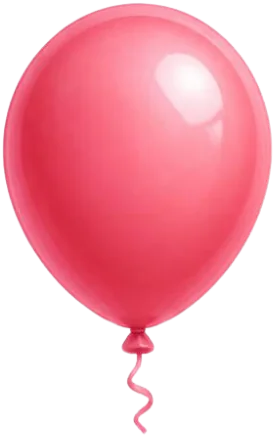
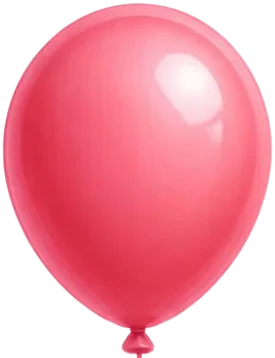
Make a Wish: puppy-eyes bear with tear, balloons tied to strings, working mic blow
Claude-Session: https://claude.ai/code/session_01421VuoqhFcSd1MVsboy9pA

diff --git a/birthday-wish/index.html b/birthday-wish/index.html
@@ -119,12 +119,14 @@ canvas#confetti{position:fixed;inset:0;width:100%;height:100%;pointer-events:non
 .sky .holder{position:absolute;left:0;right:0;bottom:0;width:100%;height:auto}
 .sky svg.strings{position:absolute;inset:0;width:100%;height:100%;overflow:visible;pointer-events:none}
 .sky svg.strings line{stroke:var(--ink);stroke-opacity:.45;stroke-width:1.2;transition:opacity .3s}
-.balloon{position:absolute;width:20%;aspect-ratio:273/437;transform:translate(-50%,-50%);border:0;padding:0;background:none;cursor:pointer;animation:float 3.6s ease-in-out infinite}
+.balloon{position:absolute;width:20%;aspect-ratio:273/358;translate:-50% -100%;transform-origin:50% 100%;border:0;padding:0;background:none;cursor:pointer;animation:sway 3.6s ease-in-out infinite}
 .balloon:nth-child(2n){animation-duration:4.2s;animation-delay:-1.2s}.balloon:nth-child(3n){animation-delay:-2.1s}
 .balloon img{width:100%;height:100%;display:block;filter:drop-shadow(0 8px 10px rgba(42,31,92,.18));pointer-events:none}
 .balloon.popped{animation:pop .32s ease-out forwards;pointer-events:none}
 @keyframes float{50%{margin-top:-7px}}
-@keyframes pop{40%{transform:translate(-50%,-50%) scale(1.25)}100%{transform:translate(-50%,-50%) scale(.1);opacity:0}}
+@keyframes pop{40%{scale:1.25}100%{scale:.1;opacity:0}}
+@keyframes sway{0%,100%{rotate:-3deg}50%{rotate:3deg}}
+.balloon.popped{transform-origin:50% 45%}
 .card{width:100%;min-height:8.2em;display:flex;flex-direction:column;align-items:center;justify-content:center;gap:6px;padding:16px;border-radius:20px;
   background:#fff;box-shadow:inset 0 0 0 3px var(--butter)}
 .card .tag{font-weight:700;font-size:.88rem;color:var(--accent);letter-spacing:.03em}
@@ -162,6 +164,11 @@ canvas#confetti{position:fixed;inset:0;width:100%;height:100%;pointer-events:non
 /* 6. ask */
 .signbear{position:relative;width:min(58vw,32dvh);aspect-ratio:624/935}
 .signbear img{width:100%;height:100%;display:block}
+.signbear img.sad{position:absolute;inset:0;opacity:0;transition:opacity .35s}
+.signbear.sad img.sad{opacity:1}
+.signbear .tear{position:absolute;left:38.6%;top:51%;width:4.4%;aspect-ratio:1;border-radius:0 50% 50% 50%;rotate:45deg;background:radial-gradient(circle at 60% 60%,#fff 0 14%,#9FD3F5 30%,#5BA8E0);opacity:0;pointer-events:none}
+.signbear.cry .tear{animation:tear 2.2s ease-in .2s infinite}
+@keyframes tear{0%{opacity:0;translate:0 0;scale:.4}15%{opacity:.95;scale:1}80%{opacity:.9}100%{opacity:0;translate:0 70%}}
 .signbear.plead{animation:plead .6s ease}
 @keyframes plead{25%{transform:rotate(-4deg)}50%{transform:rotate(3deg) scale(1.03)}75%{transform:rotate(-2deg)}}
 .signtext{position:absolute;left:31%;width:61%;top:3.4%;height:23%;display:flex;align-items:center;justify-content:center;text-align:center;
@@ -293,7 +300,7 @@ canvas#confetti{position:fixed;inset:0;width:100%;height:100%;pointer-events:non
   <!-- 6. The question -->
   <section class="scene two" data-scene="ask" hidden>
     <div class="art">
-      <div class="signbear" id="signbear"><img src="img/bear-sign.webp" alt="The bear holding up a sign" width="624" height="935"><p class="signtext" id="signText"></p></div>
+      <div class="signbear" id="signbear"><img src="img/bear-sign.webp" alt="The bear holding up a sign" width="624" height="935"><img class="sad" src="img/bear-sign-sad.webp" alt="" width="624" height="935"><span class="tear" aria-hidden="true"></span><p class="signtext" id="signText"></p></div>
     </div>
     <div class="words">
       <h2 tabindex="-1" id="question"></h2>
@@ -532,19 +539,28 @@ holdBtn.addEventListener("pointerdown", e => { if (blown) return; e.preventDefau
 holdBtn.addEventListener("contextmenu", e => e.preventDefault());
 holdBtn.addEventListener("click", e => { if (e.detail === 0) blow(); });   // keyboard
 $("#micBtn").addEventListener("click", async () => {
+  const mb = $("#micBtn"); ensureAudio();
   try {
-    const stream = await navigator.mediaDevices.getUserMedia({ audio: true }); ensureAudio();
-    const src = ctx.createMediaStreamSource(stream), an = ctx.createAnalyser(); an.fftSize = 512; src.connect(an);
-    const buf = new Float32Array(an.fftSize); let loud = 0;
-    $("#micBtn").textContent = "Listening… blow now 🌬";
+    // noise suppression would filter out the very sound of blowing, so switch it off
+    const stream = await navigator.mediaDevices.getUserMedia({ audio: { noiseSuppression: false, echoCancellation: false, autoGainControl: false } });
+    const mctx = new (window.AudioContext || window.webkitAudioContext)(); await mctx.resume();
+    const src = mctx.createMediaStreamSource(stream), an = mctx.createAnalyser(), mute = mctx.createGain();
+    an.fftSize = 1024; mute.gain.value = 0; src.connect(an); an.connect(mute); mute.connect(mctx.destination);
+    const buf = new Float32Array(an.fftSize), t0 = performance.now(); let base = 0, nb = 0, push = 0;
+    mb.textContent = "Listening… blow now 🌬";
+    const stop = () => { stream.getTracks().forEach(t => t.stop()); mctx.close(); };
     const tick = () => {
-      if (blown){ stream.getTracks().forEach(t => t.stop()); return; }
-      an.getFloatTimeDomainData(buf); let s = 0; for (const v of buf) s += v * v;
-      loud = Math.sqrt(s / buf.length) > .12 ? loud + 1 : Math.max(0, loud - 1);
-      if (loud > 8){ stream.getTracks().forEach(t => t.stop()); blow(); } else requestAnimationFrame(tick);
+      if (blown){ stop(); return; }
+      an.getFloatTimeDomainData(buf); let sq = 0; for (const v of buf) sq += v * v;
+      const rms = Math.sqrt(sq / buf.length);
+      if (performance.now() - t0 < 400){ base += rms; nb++; return requestAnimationFrame(tick); }   // room noise first
+      const need = Math.max(.035, (base / Math.max(1, nb)) * 3);
+      push = rms > need ? push + 1 : Math.max(0, push - .5);
+      holdBtn.style.setProperty("--p", Math.min(1, push / 12));
+      if (push >= 12){ stop(); blow(); } else requestAnimationFrame(tick);
     };
     tick();
-  } catch (e) { $("#micBtn").textContent = "Mic not available, hold the button instead"; }
+  } catch (e) { mb.textContent = "Mic not available, hold the button instead"; }
 });
 async function blow(){
   if (blown) return; blown = true; cancelAnimationFrame(holdRaf);
@@ -567,11 +583,12 @@ function buildBalloons(){
   const spots = BALLOONS.slice(0, n);
   spots.forEach(([x, y], i) => {
     const b = document.createElement("button"); b.className = "balloon";
-    b.style.left = x + "%"; b.style.top = (y + 16) / 1.97 + "%";
+    const ky = y + 26.2;                                   // the knot: bottom-centre of the balloon
+    b.style.left = x + "%"; b.style.top = ky / 1.97 + "%";
     b.setAttribute("aria-label", "Pop balloon " + (i + 1));
     b.innerHTML = `<img src="img/balloon-${(i % 6) + 1}.webp" alt="">`;
     const l = document.createElementNS("http://www.w3.org/2000/svg", "line");
-    l.setAttribute("x1", x); l.setAttribute("y1", y + 31.4); l.setAttribute("x2", HAND[0]); l.setAttribute("y2", HAND[1]);
+    l.setAttribute("x1", x); l.setAttribute("y1", ky); l.setAttribute("x2", HAND[0]); l.setAttribute("y2", HAND[1]);
     svg.appendChild(l);
     b.addEventListener("click", () => popBalloon(i, b, l));
     sky.appendChild(b);
@@ -649,7 +666,7 @@ async function cutCake(){
 let asks = 0;
 $("#noBtn").addEventListener("click", () => {
   asks++; ensureAudio(); ding(330, 0, .15);
-  const sb = $("#signbear"); sb.classList.remove("plead"); void sb.offsetWidth; sb.classList.add("plead");
+  const sb = $("#signbear"); sb.classList.remove("plead"); void sb.offsetWidth; sb.classList.add("plead", "sad"); if (asks >= 2) sb.classList.add("cry");
   $("#signText").textContent = SIGN[theme][Math.min(asks, 3)];
   const no = $("#noBtn"); no.style.transform = `scale(${Math.max(.6, 1 - asks * .13)})`;
   if (asks >= 3){ no.querySelector(".lbl").textContent = "Okay, yes!"; no.onclick = sayYes; }
